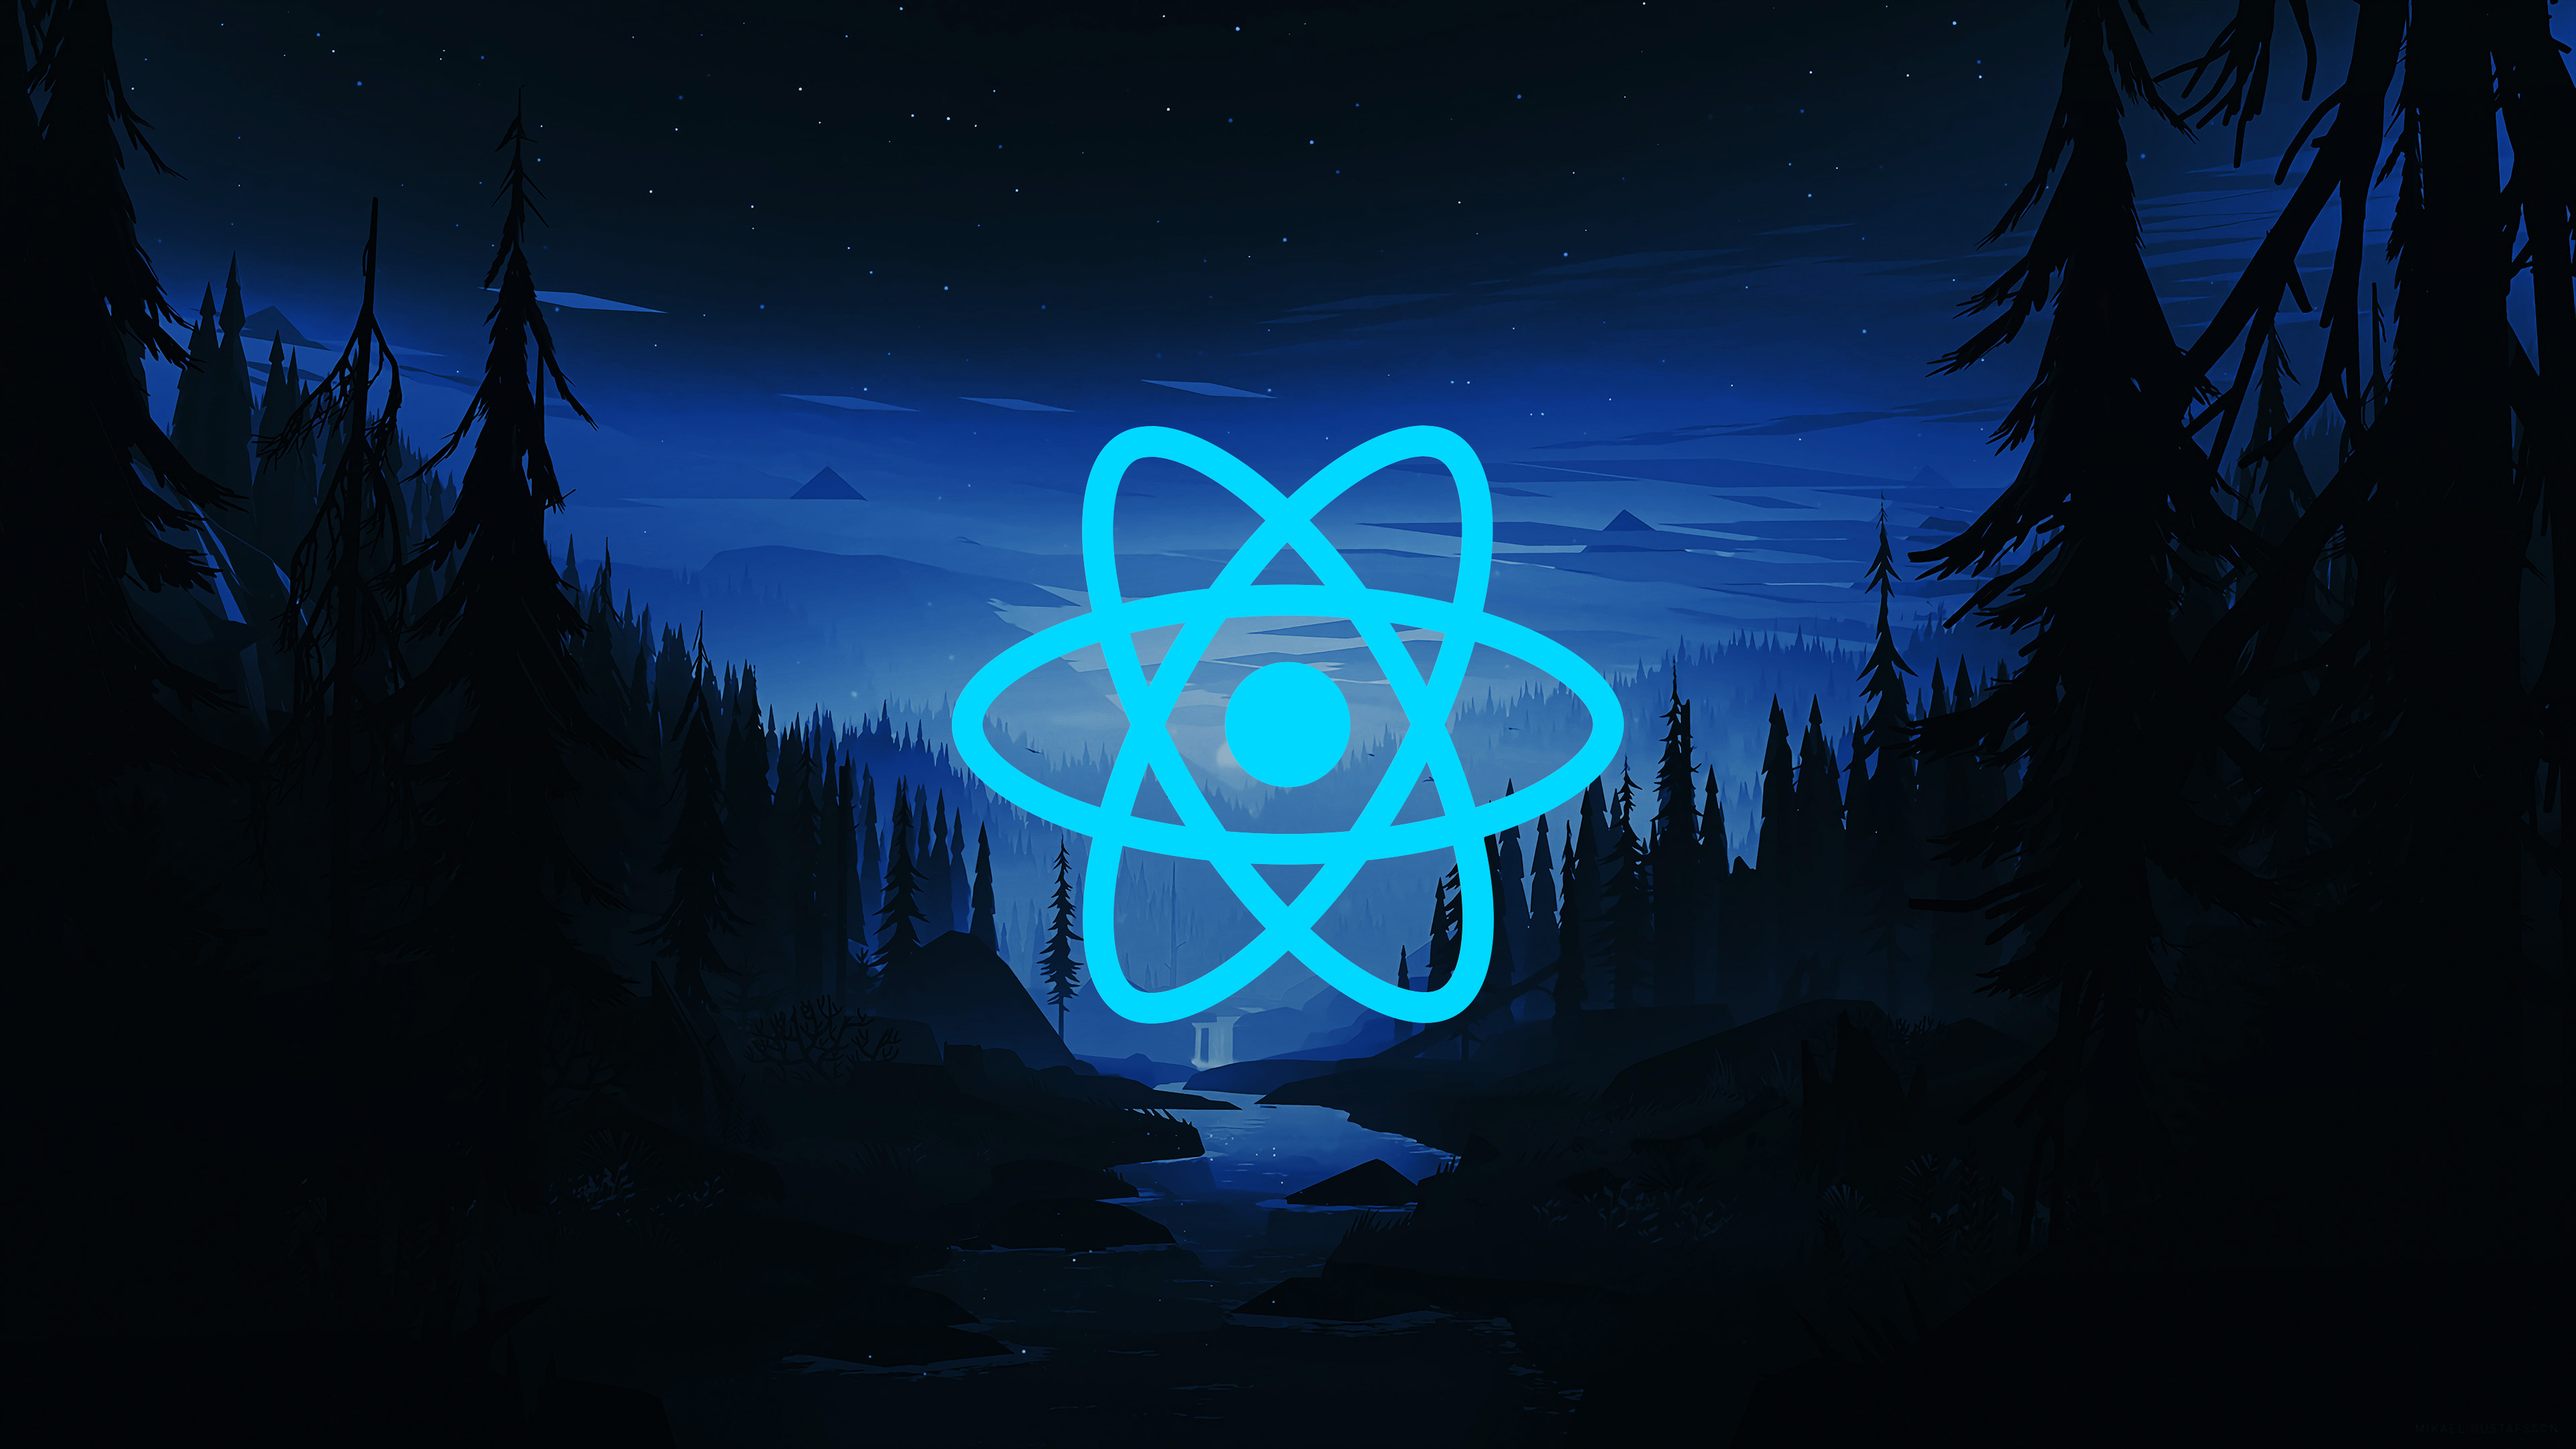
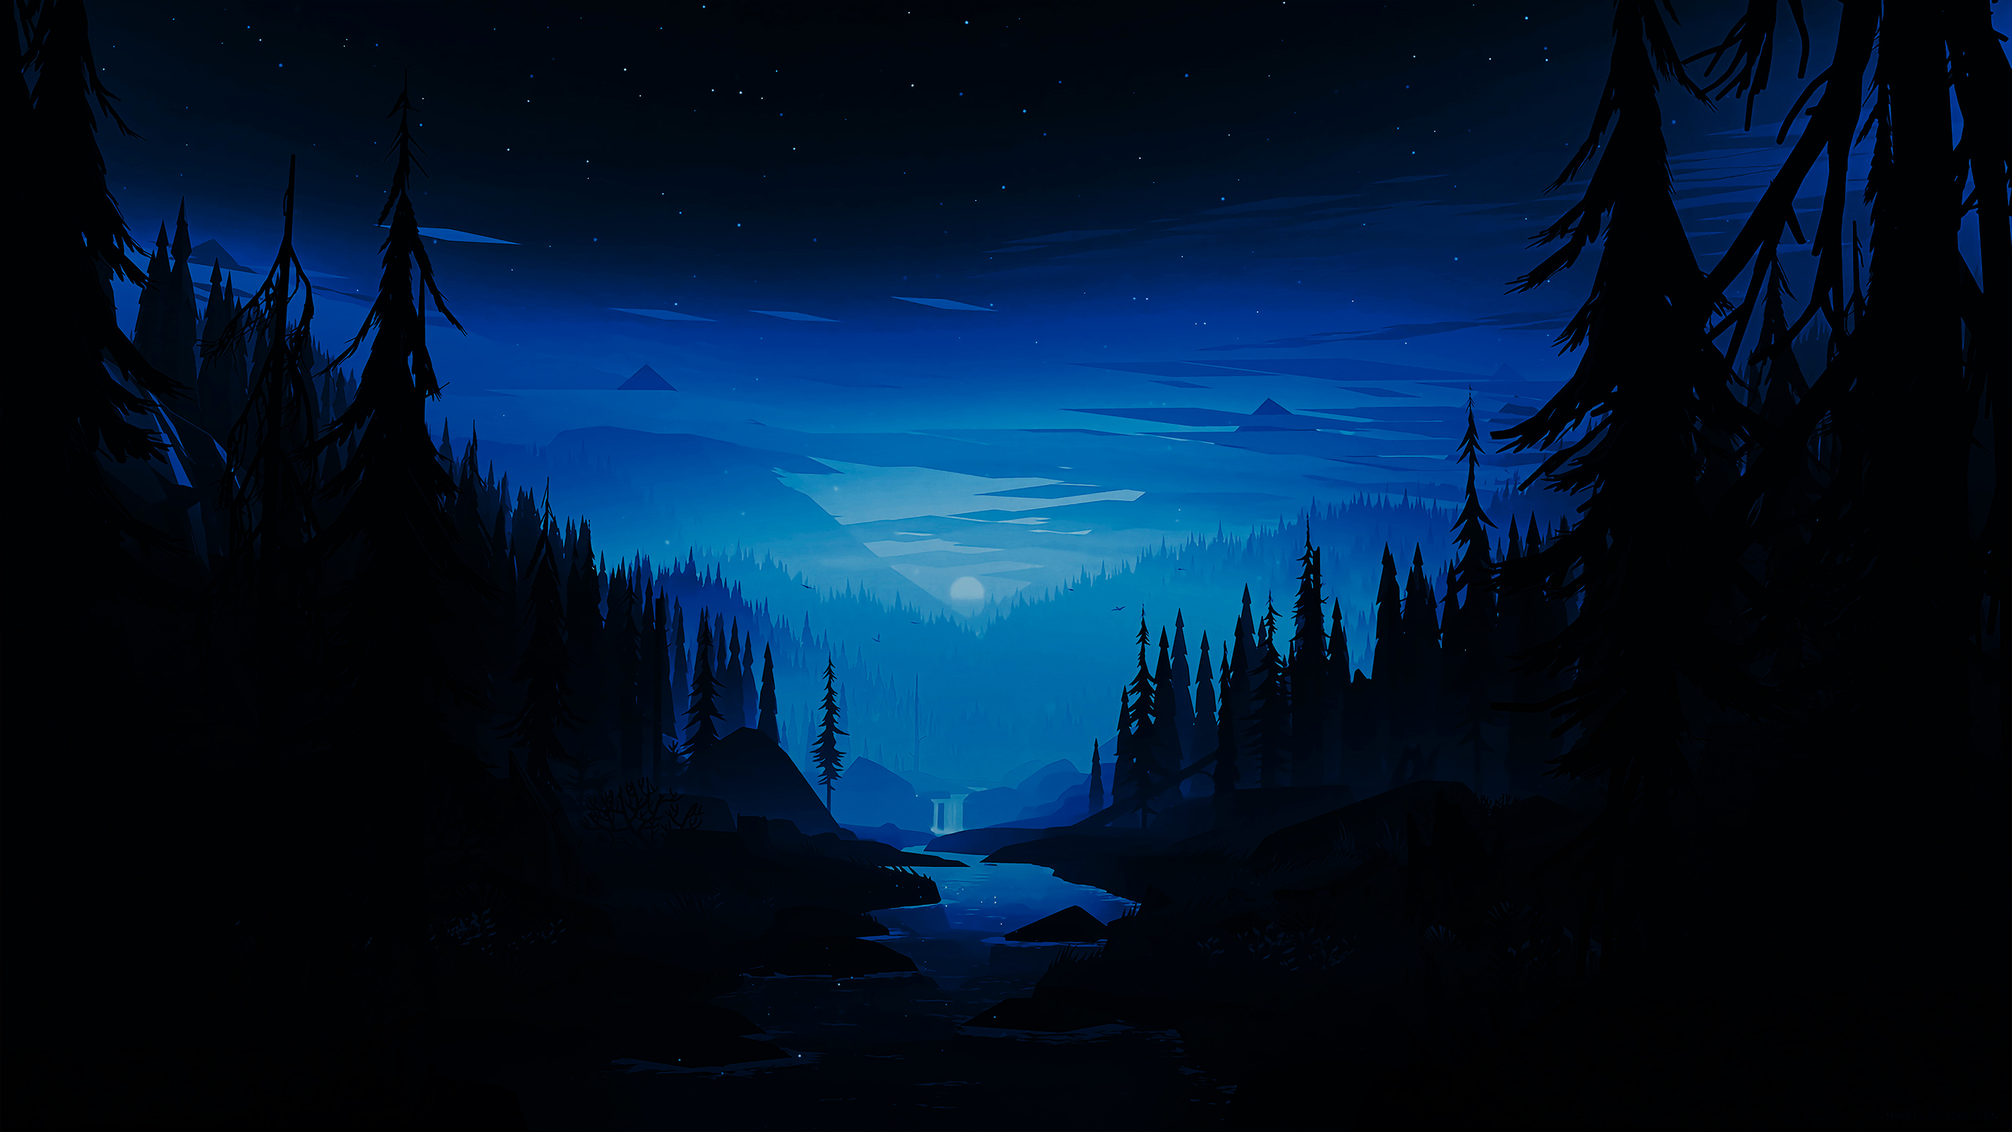
Main page done(v3)

Changed region(s): [[0.248, 0.2773, 0.744, 0.8009]]

diff --git a/style.css b/style.css
@@ -65,13 +65,6 @@ body {
     z-index: 0;
 }
 
-.greeting {
-    z-index: 1;
-    display: flex;
-    justify-content: center;
-    align-items: center;
-}
-
 .text {
     font-size: 2rem;
     color: white;
@@ -82,7 +75,7 @@ body {
     font-size: 1.5rem;
 }
 .text_offset-small {
-    margin-top: 1rem;
+    padding-top: 2rem;
 }
 .text_inverse {
     color: black;
@@ -95,8 +88,8 @@ body {
 }
 .main_left {
     width: 45%;
-    display: block;
-    padding: 50px;
+    display: flex;
+    margin: 3rem 3rem 0 3rem;
     word-wrap: break-word;
     flex-direction: column;
     align-items: center;
@@ -112,7 +105,8 @@ body {
 .main_img {
     margin: auto;
     display: block;
-    width: 100%;
+    max-width: 100%;
+    max-height: 100%;
     object-fit: contain;
     box-shadow: rgba(38, 0, 255, 0.5) 0px 0px 100px;
 }
@@ -120,24 +114,42 @@ body {
 .about {
     height: 100vh;
 }
+.examples {
+    height: 100vh;
+    background-color: black;
+}
+.main-btn {
+    display: block;
+    width: fit-content;
+    font-size: 2rem;
+    border: 2px solid white;
+    color: white;
+    font-family: "Trebuchet MS";
+    padding: 1.2rem;
+}
+.main-btn_offset_around {
+    margin: 2rem;
+}
 
 
 /* Extra large devices (large laptops and desktops, 1200px and up) */
 @media only screen and (max-width: 1450px) {
+    html {
+        font-size: 12px;
+    }
     .main {
         flex-direction: column;
-        justify-content: space-around;
-        padding-top: 2rem;
+        justify-content: center;
     }
     .main_left {
-        flex: 1 0 33%;
         width: 100%;
         text-align: center;
     }
     .main_right {
-        flex: 1 0 66%;
         margin-right: 0px;
-        width: 100%;
+        max-height: 55vh;
+        width: auto;
+        max-width: 90vmin;
     }
     .main_img {
         object-fit: fill;
@@ -145,17 +157,15 @@ body {
 }
 /* Large devices (laptops/desktops, 992px and up) */
 @media only screen and (max-width: 992px) {
-
+   
 }
 /* Medium devices (landscape tablets, 768px and up) */
 @media only screen and (max-width: 768px) {
-
+   
 }
 /* Small devices (portrait tablets and large phones, 600px and up) */
 @media only screen and (max-width: 600px) {
-    html {
-        font-size: 12px;
-    }
+    
 }
 /* Extra small devices (phones, 600px and down) */
 @media only screen and (max-width: 450px) {

diff --git a/index.html b/index.html
@@ -15,13 +15,21 @@
         <div class="main_left">
           <p class="text text_big">Привет, я Сергей</p>
           <p class="text text_offset-small">Junior веб-разработчик</p>
+          <a href="#examples" class="main-btn main-btn_offset_around">Проекты</a>
         </div>
         <div class="main_right text">
-          <img class="main_img" src="/icpc_photo.jpg"></img>
+          <img class="main_img" src="/icpc_photo.png"></img>
         </div>
     </main>
     <section id="about" class="about">
       <h1 class="text text_inverse text_center text_offset-small">Что я умею?</h1>
+      <div class="dbox">
+        <div class="dbox_left">One</div>
+        <div class="dbox_right">Two</div>
+      </div>
+    </section>
+    <section id="examples" class="examples">
+      <h1 class="text text_center text_offset-small">Мои работы</h1>
     </section>
     <script src="script.js"></script>
   </body>
